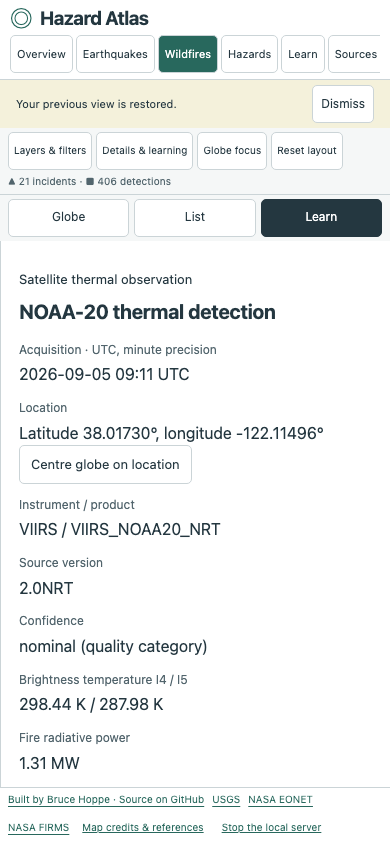
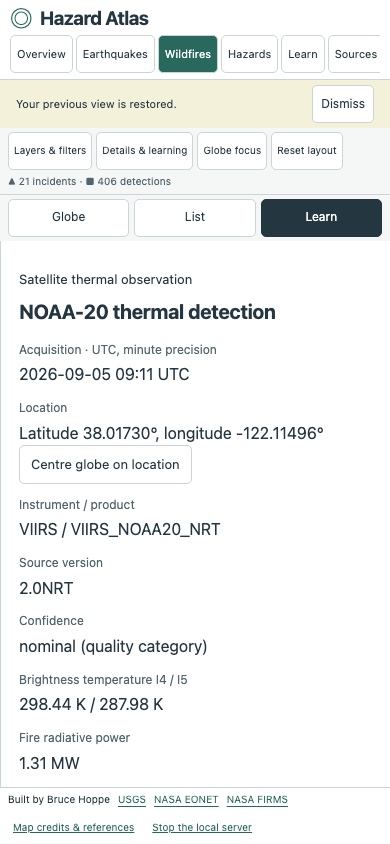
Drop the repository link from the footer credit, 0.4.1
The footer now carries "Built by Bruce Hoppe" as plain text instead of a
link to the repository. The source code, licence and issue tracker are
still reachable from the About and Sources panels, so nothing an MIT
project owes a reader is lost.

Patch bump rather than a rebuild in place: 0.4.0 archives had already
been produced, and shipping different contents under a version that
already exists would make the checksums meaningless.

Updates the author-credit assertion in scripts/browser-check.mjs, which
looked for a link by its accessible name. Note that harness still points
at port 8787, the original earthquake-observatory server, so it does not
currently run against this repository; the assertion is corrected for
whenever it is repointed.

Verified: go build/vet/test, tsc, 32 unit tests, the animation
regression, 15 hazards checks, 7 app checks, 9 browser checks with zero
axe violations across four routes, and 10 consumer checks against a
freshly extracted 0.4.1 archive. The footer was inspected in the shipped
binary: plain text credit, no github link anywhere in the element.

Claude-Session: https://claude.ai/code/session_01Pzjo216iRMbxULqf5ved4n

Changed region(s): [[0.0308, 0.9242, 0.8308, 1.0]]

diff --git a/web/src/Atlas.tsx b/web/src/Atlas.tsx
@@ -1618,13 +1618,7 @@ function Atlas() {
         </div>
       )}
       <footer class="atlas-footer">
-        <a
-          href="https://github.com/bruce-hoppe_uoft/hazard-atlas"
-          target="_blank"
-          rel="noreferrer"
-        >
-          Built by Bruce Hoppe · Source on GitHub
-        </a>
+        <span>Built by Bruce Hoppe</span>
         <a href={sources[0].url}>USGS</a>
         <a href={fireSources[0].url}>NASA EONET</a>
         <a href={fireSources[1].url}>NASA FIRMS</a>

diff --git a/docs/release-readiness.md b/docs/release-readiness.md
@@ -58,7 +58,7 @@ Host: macOS arm64, Go 1.27.1, Node 26.8.1, headless Chromium 153.0.8010.12. Veri
 | Dependency vulnerabilities | `npm audit` reports zero; `go run golang.org/x/vuln/cmd/govulncheck@latest ./...` reports no vulnerabilities. Scan results are time-specific. |
 | Packaging | Hazard Atlas 0.4.0 macOS arm64, macOS amd64 and Windows amd64 cross-builds succeeded. Extracted macOS arm64 archive passed startup, embedded assets, demo, running backup, restart, clean-directory restore and integrity checks through `scripts/consumer-check.mjs`; see `consumer-test-results.json`. Native macOS Launch Services launch, live-mode configuration and ad-hoc signature verification remain local checks. Windows and Intel execution remain unverified. |
 | Upstream data quality | 125 of the 618 bundled place descriptions carry a question mark where a non-Latin-1 letter belongs (`Nurda??`, `Pazarc?k`). Verified as upstream: a fresh USGS query returns records identical to the bundled snapshot, differing only in the response's own `generated` timestamp. Descriptions are reproduced as supplied rather than corrected, because editing them would alter an observational record; see `sources.md`. Coordinates, magnitudes, depths and times are unaffected. |
-| Attribution/license | Credit `Built by Bruce Hoppe · Source on GitHub` links to the repository in the production footer and About panel, with no address published in the interface; browser check asserts footer visibility. README, QUICKSTART, MIT LICENSE and third-party notices included in archives. |
+| Attribution/license | The production footer carries the plain-text credit `Built by Bruce Hoppe`, with no repository link and no address published in the interface; browser check asserts its visibility. The About and Sources panels still link the source code, licence and issue tracker. README, QUICKSTART, MIT LICENSE and third-party notices included in archives. |
 | CI | Workflow configured for Linux/macOS/Windows; no hosted CI run is claimed. |
 
 ## Remaining publication gates and deliberate operating limits

diff --git a/docs/sources.md b/docs/sources.md
@@ -18,4 +18,4 @@ Official provider documentation and data endpoints were checked 2026-09-06 UTC.
 
 Frozen demo fixtures were retrieved 2026-09-06 UTC. EONET was queried for wildfire records from 2026-09-01 through 2026-09-05. The FIRMS fixture is a public NOAA-20 24-hour CSV spatial subset for 125–110°W, 30–49°N on 2026-09-05 and contains 97 detections. The CWFIS fixture is the official 2026-09-05 daily Fire M3 hotspot CSV filtered to Canada and contains 309 detections. These are attributed demonstration snapshots, not proof of complete satellite coverage. Fixture provenance is in `internal/wildfire/testdata/provenance.json`.
 
-The withdrawn personal email footer credit is not present. The established attribution remains “Built by Bruce Hoppe · Source on GitHub,” alongside provider and geography credits. Hazard Atlas does not imply NASA, USGS, GDACS, or University of Toronto endorsement.
+The withdrawn personal email footer credit is not present. The footer attribution is “Built by Bruce Hoppe,” carried as plain text rather than a repository link, alongside provider and geography credits; the About and Sources panels still link the source code and licence. Hazard Atlas does not imply NASA, USGS, GDACS, or University of Toronto endorsement.

diff --git a/RELEASE_NOTES.md b/RELEASE_NOTES.md
@@ -1,3 +1,7 @@
+# 0.4.1 — local release
+
+The footer credit reads “Built by Bruce Hoppe” as plain text and no longer links to the repository. The source code, licence and issue tracker are still reachable from the About and Sources panels.
+
 # 0.4.0 — local release
 
 Adds a Hazards tab covering every NASA EONET category except wildfires and earthquakes, which keep the pipelines they already had — EONET's own earthquakes category is dropped so USGS remains the source of record. Each category has its own outline glyph and each event a severity colour drawn from GDACS, and the two encodings stay independent: filtering by severity never changes which shapes appear. A legend in the panel documents all thirteen glyphs and the four severity states.

diff --git a/CHANGELOG.md b/CHANGELOG.md
@@ -1,5 +1,9 @@
 # Changelog
 
+## 0.4.1 (2026-09-07 UTC)
+
+- The footer credit is now the plain text “Built by Bruce Hoppe” rather than a link to the repository. The source code, licence and issue tracker remain linked from the About and Sources panels.
+
 ## 0.4.0 (2026-09-07 UTC)
 
 - New **Hazards** tab covering every NASA EONET category except wildfires and earthquakes, which keep their existing pipelines: EONET's own earthquakes category is discarded server-side so USGS stays the sole source of record.
